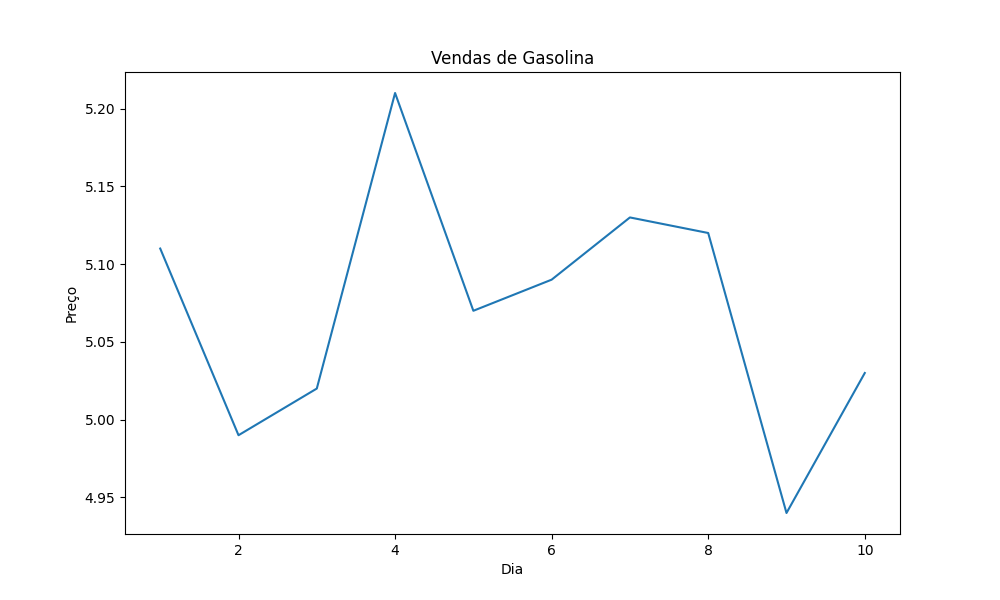
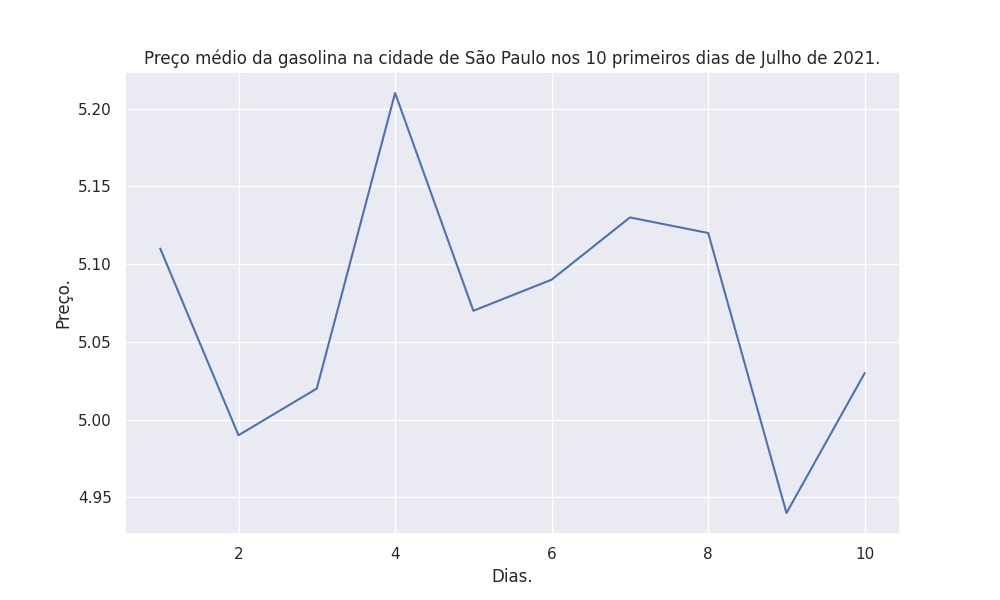
Adicionado melhorias de visualizaçao no gráfico e arquivos de código.

diff --git a/gasolina.py b/gasolina.py
@@ -1,17 +1,19 @@
-#gerando o grafico
-import pandas as pd 
-import seaborn as sns
+# código de geração do gráfico 
+import pandas as pd
 import matplotlib.pyplot as plt
+import seaborn as sns
 
-#trasnformando e um dataframe.
-df = pd.read_csv('gasolina.csv')
-df.head()
+gasolina_df = pd.read_csv("gasolina.csv")
+gasolina_df.head()
 
-#grafico de linha.
-plt.figure(figsize=(10,6))
-grafico = sns.lineplot(data=df, x="dia", y="venda")
-grafico.set(title="Vendas de Gasolina", xlabel="Dia", ylabel="Preço")
+#ajustando o tamanho.
+plt.figure(figsize=(10, 6))
 
-#salvando
-plt.savefig('gasolina.png')
-plt.show()
+#gerando o grafico
+sns.lineplot(data=gasolina_df, x="dia", y="venda")
+
+#botando titulos, nomes de cada eixo.
+plt.title("Preço médio da gasolina na cidade de São Paulo nos 10 primeiros dias de Julho de 2021.")
+plt.xlabel("Dias.")
+plt.ylabel("Preço.")
+plt.savefig("gasolina.png")
